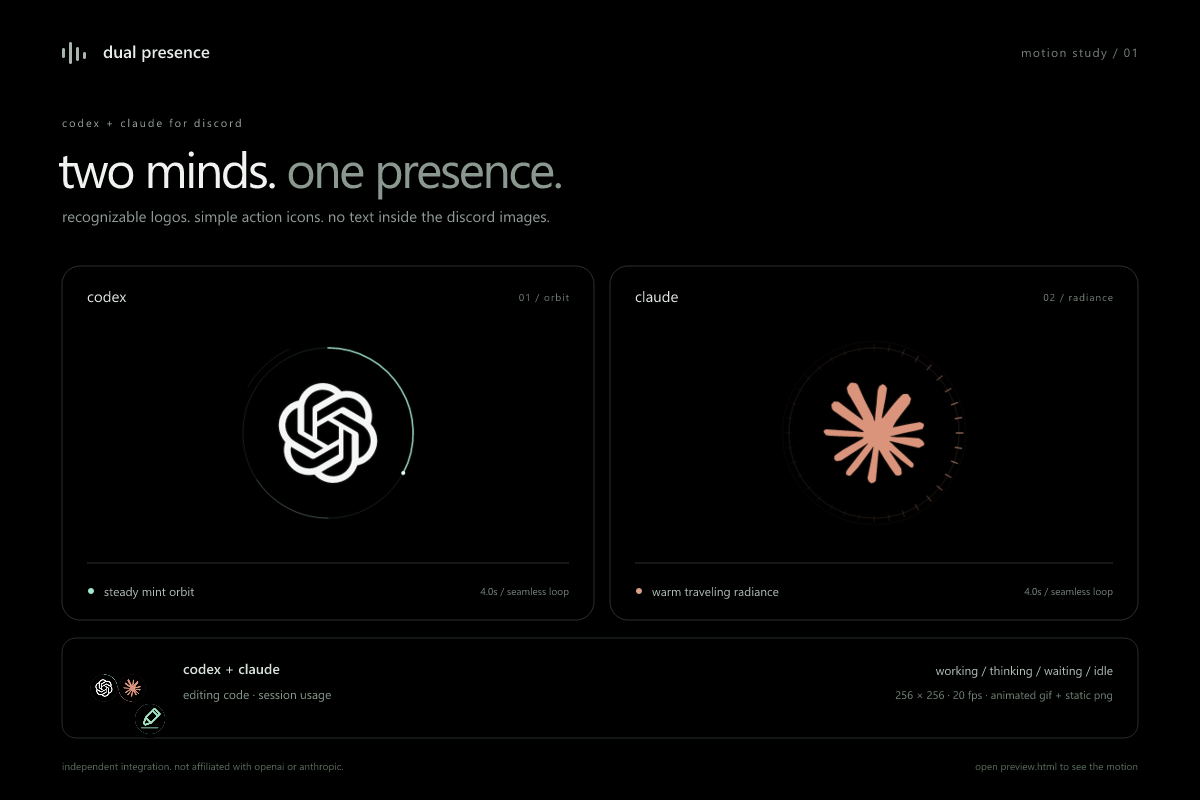
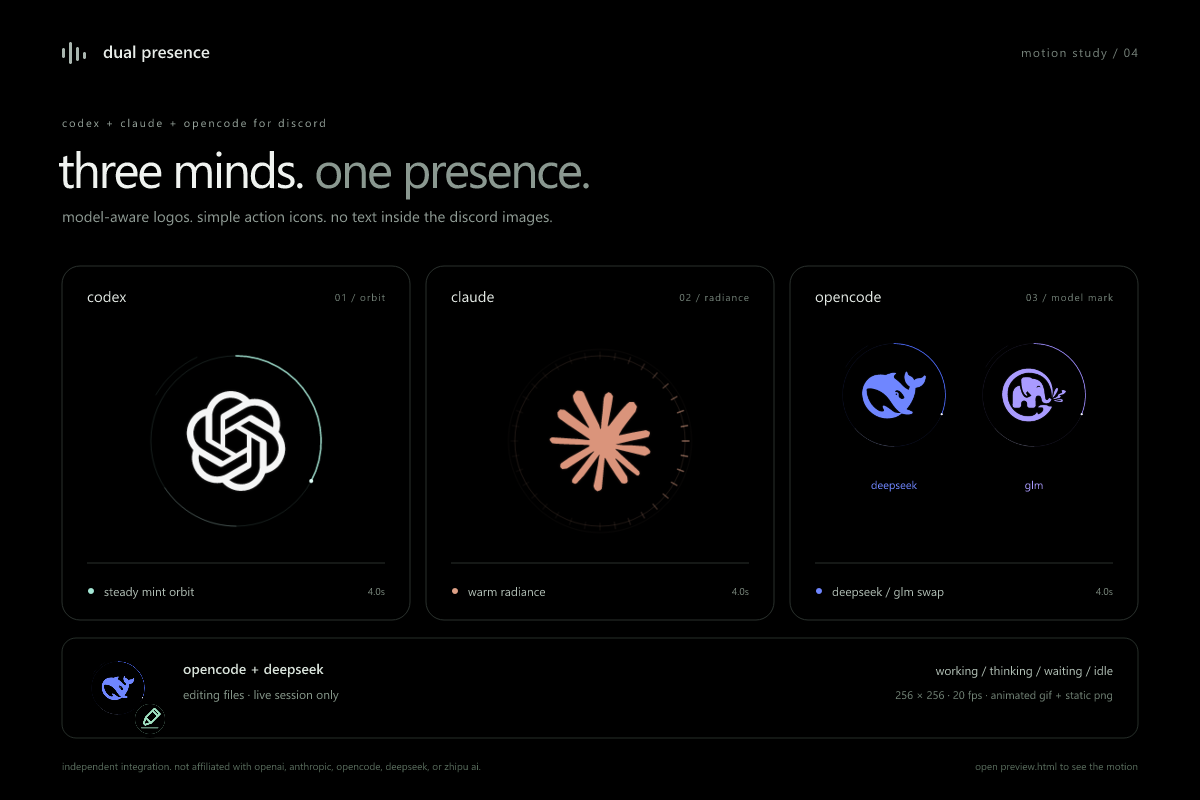
refresh the readme and overview for opencode

diff --git a/README.md b/README.md
@@ -1,8 +1,8 @@
 # codex + claude + opencode for discord
 
-up to three coding assistants, one discord presence. local activity and token usage with distinct, smooth logo animations.
+three coding assistants, one discord presence. local activity, model-aware logos, and token usage where it is available.
 
-![codex and claude motion preview](assets/overview.png)
+![codex, claude, and opencode motion preview](assets/overview.png)
 
 fork of [telljoe/claude-discord-rpc-dist](https://github.com/telljoe/claude-discord-rpc-dist). the original license is preserved. this fork does not update itself from the original repository.
 
@@ -16,7 +16,7 @@ cd codex-claude-discord-rpc
 node rpc.js
 ```
 
-the default configuration retains the upstream public discord application id and uses this fork's hosted animations. `name` is set to `codex + claude`; the exact display still depends on your discord client. to use your own discord application or change preferences, run `node scripts/setup.js`.
+the default configuration retains the upstream public discord application id and uses this fork's hosted animations. the discord application name stays `codex + claude`; the card content covers all three assistants. to use your own discord application or change preferences, run `node scripts/setup.js`.
 
 to install in your user account and start at login:
 
@@ -28,28 +28,29 @@ the installer copies this local checkout to `%LOCALAPPDATA%\CodexClaudeRPC`. it 
 
 ## what it shows
 
-- plain-language actions such as `codex: running tests` and `claude: editing files`.
-- the saved conversation title beside each active assistant's action.
-- both token totals on the same card when both have recent sessions.
-- when idle: both logos, all-time locally recorded tokens for each assistant, and their estimated api costs.
-- a white chatgpt knot with a mint orbit; a coral claude sun with a warm pulse; a blue deepseek whale or a purple glm mark on a cool orbit.
+- plain-language actions such as `codex: running tests`, `claude: editing files`, and `opencode: searching code`.
+- the saved conversation title beside each active codex or claude action. opencode titles are not read.
+- token totals on the same card when codex or claude have recent sessions. opencode shows its model instead of a pending token number.
+- when idle: the codex and claude logos, all-time locally recorded tokens for each, and their estimated api costs.
+- a white chatgpt knot with a mint orbit, a coral claude sun with a warm pulse, a blue deepseek whale, and a purple glm mark.
 - opencode shows which model it is using by putting the GLM or DeepSeek logo itself on the large card. other opencode models fall back to the opencode mark.
-- when both are active, one split logo: chatgpt on the left, claude on the right, with each half showing its own activity.
-- four animations for codex, claude, plain opencode, glm, and deepseek, four paired-logo animations, and nine split-state combinations. each is a seamless four-second, 20 fps loop.
+- when codex and claude are the two active assistants, one split logo: chatgpt on the left, claude on the right, with each half showing its own activity.
+- while opencode is active it keeps the large card, so the GLM or DeepSeek logo stays visible even when codex or claude are also active. the other actions stay in the text and hover.
+- four animations each for codex, claude, plain opencode, glm, and deepseek, four paired-logo animations, and nine split-state combinations. each is a seamless four-second, 20 fps loop.
 - distinct action badges for editing, reading, searching, testing, terminal commands, browsing, reviewing, thinking, waiting, finished, idle, and other work.
 - an elapsed timer and an optional project folder name.
 
-when codex and claude are the two active assistants, every display mode uses a split image with half of each logo. each side animates independently for working, thinking, or waiting. the split stays in place while the small action badge can alternate between assistants. once both are idle, the paired full logos and lifetime totals return.
+when codex and claude are the two active assistants, every display mode uses a split image with half of each logo. each side animates independently for working, thinking, or waiting. the split stays in place while the small action badge can alternate between assistants. once nothing is active, the paired full logos and lifetime totals return.
 
-![split logos while both assistants are active](assets/split-working-working.gif)
+![split logos while codex and claude are active](assets/split-working-working.gif)
 
-`auto` follows the active provider when only one is active. the small badge shows the current action: a pencil for edits, a magnifier for searches, a checklist for tests, and a pause icon when waiting for you. `combined` also keeps both logos visible when one recent session is idle. `rotate` gives recent idle providers a turn as the main logo. text keeps both providers' actions and usage visible in every mode. the discord member list uses the action line too.
+`auto` follows the active provider when only one is active. the small badge shows the current action: a pencil for edits, a magnifier for searches, a checklist for tests, and a pause icon when waiting for you. `combined` also keeps both logos visible when one recent session is idle. `rotate` gives recent idle providers a turn as the main logo. opencode overrides the rotation while it is active so its model logo stays on screen. text keeps every active provider's action and usage visible in every mode. the discord member list uses the action line too.
 
 action text comes from a fixed vocabulary. raw commands, prompts, and tool inputs never appear on discord. fast tool results keep their action visible for up to eight seconds to avoid flicker. a finished action stays visible for `doneSeconds` (20 seconds by default), then the all-time idle card appears.
 
 there is no text baked into the images. the artwork contains only logos, motion, and action pictograms on pure black; labels stay in discord's normal text fields. glow is confined to the logos, with crisp unlit action icons and orbit lines.
 
-open [the interactive animation preview](assets/preview.html) from your local checkout to compare states and pause motion. github displays the html source; download or clone first.
+open [the interactive animation preview](assets/preview.html) from your local checkout to compare the codex and claude motion and pause it. github displays the html source; download or clone first. the still deepseek and glm logos are in `assets/`.
 
 ## settings
 
@@ -69,24 +70,24 @@ optional `config.json` overrides [config.example.json](config.example.json). it 
 - `privacy`: `minimal` shows provider, state, model, and optional usage. `project` also shows the current folder's name. prompt text, commands, file contents, and full paths are never published. `hideProjects` accepts folder globs such as `client-*`.
 - `providers`: set `codex`, `claude`, or `opencode` to false to hide that provider. opencode shows the glm or deepseek logo while that model is active; other models use the plain opencode logo.
 - `showTokens`: false hides usage and cost. `showWhenIdle`: true (default) shows the all-time idle card; false clears the presence when nothing is active.
-- `showConversationTitle`: true in the bundled configuration shows saved conversation titles in discord's text fields. set false to hide them. titles are shortened to fit both assistants when active together; logo hover allows more title text within discord's text limit. missing titles leave the usual action labels visible. titles are read from codex's session index and claude's explicit session/title metadata, never guessed from prompt text.
-- `images.baseUrl`: public https directory containing the bundled gifs. `images.animated: false` selects png stills. for developer portal uploads, use the png files, name keys like `codex_working`, and set `images.portal: true`.
-- `codexRoot`: custom sessions directory (default `$CODEX_HOME/sessions` or `~/.codex/sessions`). `claudeRoot`: custom claude home (default `$CLAUDE_CONFIG_DIR` or `~/.claude`).
+- `showConversationTitle`: true in the bundled configuration shows saved conversation titles in discord's text fields. set false to hide them. titles are shortened to fit the active assistants; logo hover allows more title text within discord's text limit. missing titles leave the usual action labels visible. titles are read from codex's session index and claude's explicit session/title metadata, never guessed from prompt text, and opencode titles are not read.
+- `images.baseUrl`: public https directory containing the bundled gifs. `images.animated: false` selects png stills. for developer portal uploads, use the png files and name keys like `codex_working`, `claude_working`, `deepseek_working`, `glm_working`, and `opencode_working`, then set `images.portal: true`.
+- `codexRoot`: custom sessions directory (default `$CODEX_HOME/sessions` or `~/.codex/sessions`). `claudeRoot`: custom claude home (default `$CLAUDE_CONFIG_DIR` or `~/.claude`). `opencodeRoot`: custom opencode data directory (default `$OPENCODE_DATA_DIR`, `$XDG_DATA_HOME/opencode`, or `~/.local/share/opencode`).
 - `codexHistoryRoot`: custom codex home containing `sessions` and `archived_sessions`. defaults to `$CODEX_HOME`, `~/.codex`, or the parent of a custom `codexRoot`.
 
 discord supports animated images through public external urls. uploaded portal assets are static. see [discord's rich presence documentation](https://docs.discord.com/developers/discord-social-sdk/development-guides/setting-rich-presence#uploading-assets).
 
 ## usage and activity limits
 
-while active, usage is the sum of recent local session counters, including cached input. opencode contributes live activity and model information only; its token history stays in opencode's own database and is not scanned for the lifetime card. `usage pending` means a log has no counter yet; `≥` marks incomplete counters. inherited history in active forked sessions can overlap.
+while active, usage is the sum of recent local session counters for codex and claude, including cached input. opencode contributes live activity and model information only; its token history stays in opencode's own database and is not scanned for the lifetime card. `usage pending` means a log has no counter yet; `≥` marks incomplete counters. inherited history in active forked sessions can overlap.
 
-when idle, a separate history index shows all-time locally recorded tokens and estimated api cost for each assistant. it scans codex sessions and archives (including `.jsonl.zst` on node 22.15+), plus claude project and subagent transcripts. stable request/message ids and cumulative-event fingerprints remove copied and repeated usage. incomplete or inferred records remain estimates, not an account-wide billing ledger. deleted history that was never indexed, cloud-only usage, and browser chats cannot be recovered.
+when idle, a separate history index shows all-time locally recorded tokens and estimated api cost for codex and claude. it scans codex sessions and archives (including `.jsonl.zst` on node 22.15+), plus claude project and subagent transcripts. stable request/message ids and cumulative-event fingerprints remove copied and repeated usage. incomplete or inferred records remain estimates, not an account-wide billing ledger. deleted history that was never indexed, cloud-only usage, and browser chats cannot be recovered.
 
 the first scan runs in a background worker. later scans run every minute, reusing unchanged files. the local `cache/lifetime-v1.json` stores usage counters and hashed file identifiers, never prompts or transcript text. previously indexed counters remain available when logs are archived or removed. stop the app and delete this cache to rebuild only from currently available files.
 
 costs use published api input, output, and cache rates for the recorded model, with current standard pricing where tier/context metadata is missing. these are hypothetical api costs, not subscription spending or a bill. unknown models and unknown cache-write lifetimes remain `unpriced`; a dollar amount followed by `+ unpriced` is only the priced subtotal. `≥` marks incomplete token coverage. no paid api calls or credentials are used to calculate these estimates. see [pricing sources and assumptions](PRICING.md); `node rpc.js --stats` shows local totals, per-model costs, and coverage.
 
-codex activity is inferred from local rollout events. claude uses local session metadata and transcripts, with a process-liveness check when a pid is available. opencode is read from its local append-only log: only key/value metadata such as session id, provider, model, and permission action is used, never prompts, file contents, or command output. compressed/archived codex logs contribute to lifetime usage but do not count as live activity. local formats can change between app versions.
+codex activity is inferred from local rollout events. claude uses local session metadata and transcripts, with a process-liveness check when a pid is available. opencode is read from its local append-only log at `log/opencode.log`: only key/value metadata such as session id, provider, model, and permission action is used, never prompts, file contents, or command output. the reader tails new lines and starts from the last 512 kb on launch. compressed/archived codex logs contribute to lifetime usage but do not count as live activity. local formats can change between app versions.
 
 silent sessions become idle after `staleMs` (two minutes by default), including long-running tasks with no log events. sessions leave the card after `idleRetentionMs` (ten minutes). bounded reads keep large histories responsive. these limits are configurable.
 
@@ -114,7 +115,7 @@ npm ci
 npm run assets
 ```
 
-source vectors and their attribution are in [assets/credits.txt](assets/credits.txt). the logos identify the products; this project is not affiliated with openai, anthropic, opencode, deepseek, or zhipu ai. see [license](LICENSE) and [notice](NOTICE).
+source vectors and their attribution are in [assets/credits.txt](assets/credits.txt). opencode and deepseek marks come from simple-icons (cc0); the chatglm mark comes from lobehub icons (mit). the logos identify the products; this project is not affiliated with openai, anthropic, opencode, deepseek, or zhipu ai. see [license](LICENSE) and [notice](NOTICE).
 
 
 this shit is all vibe coded lmfao
